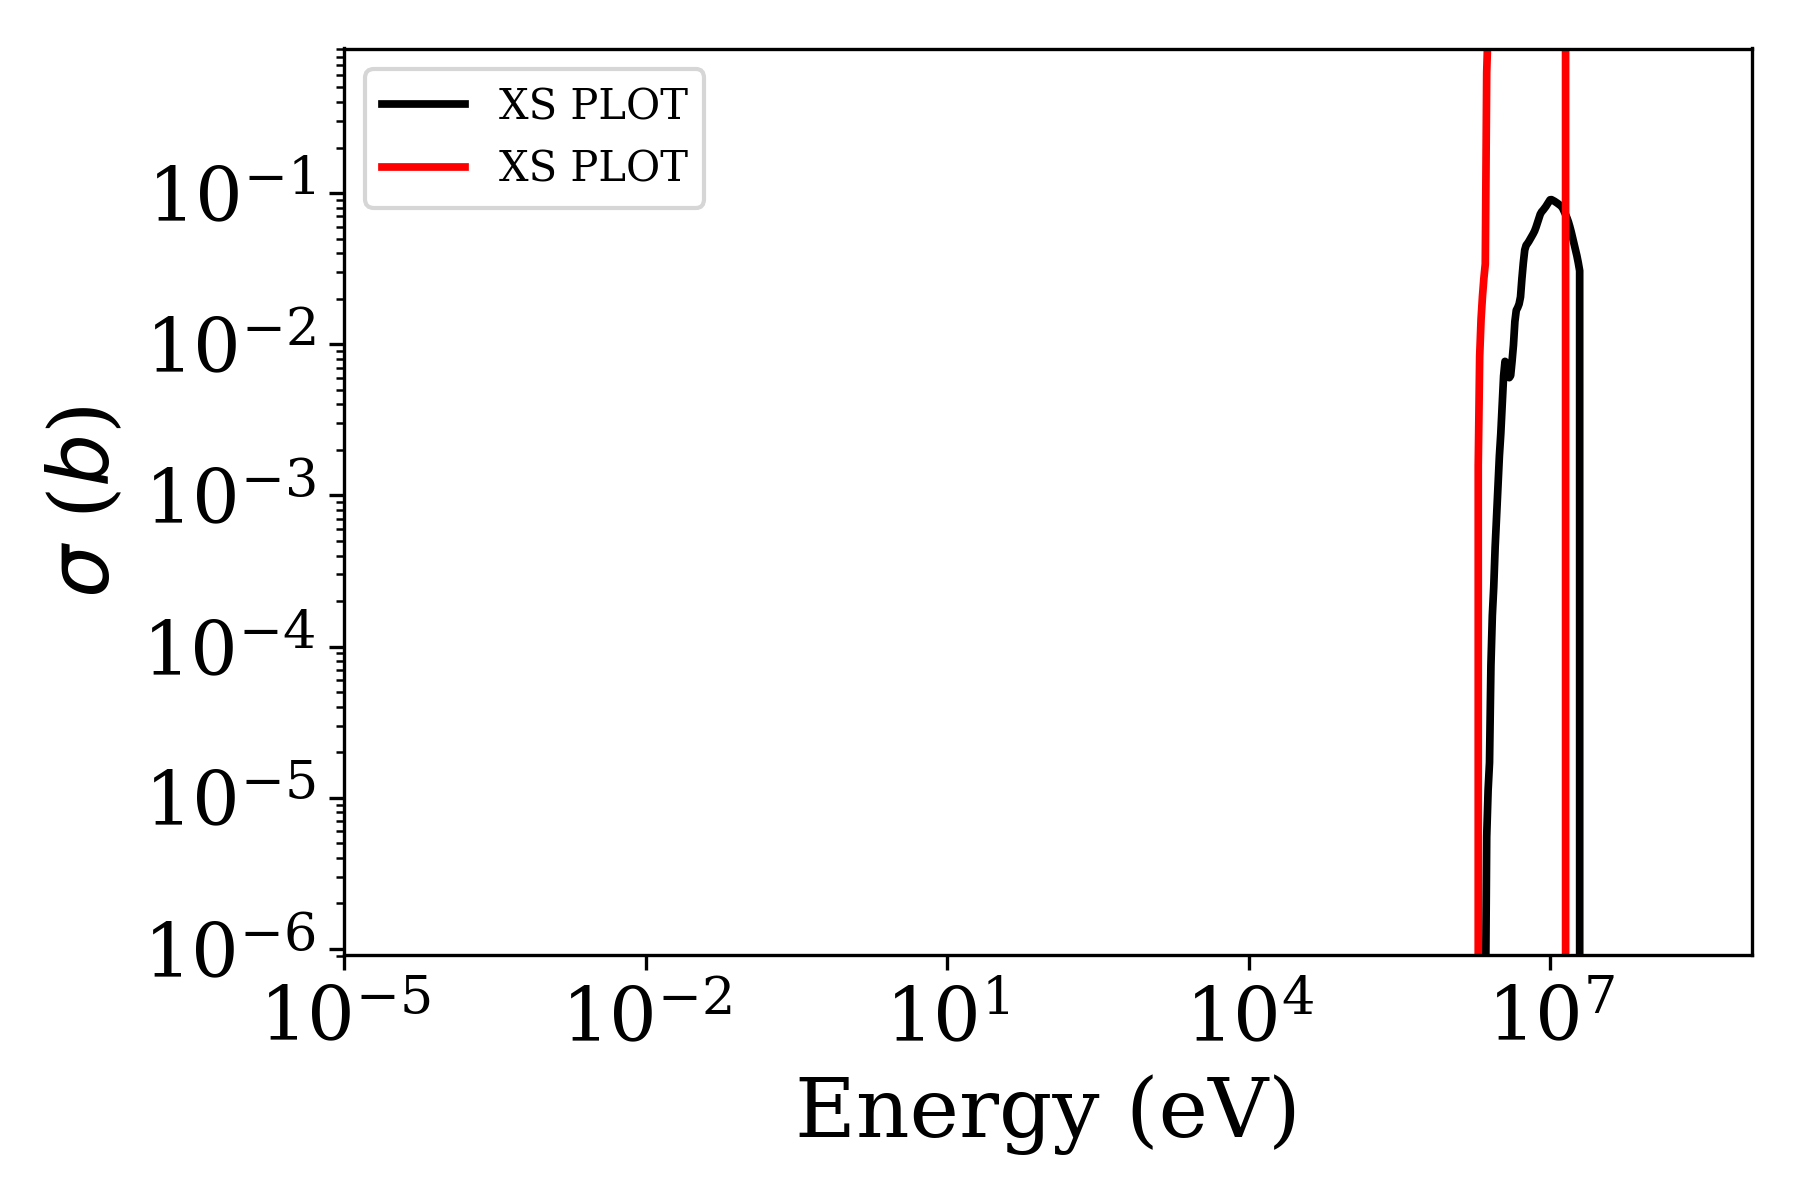
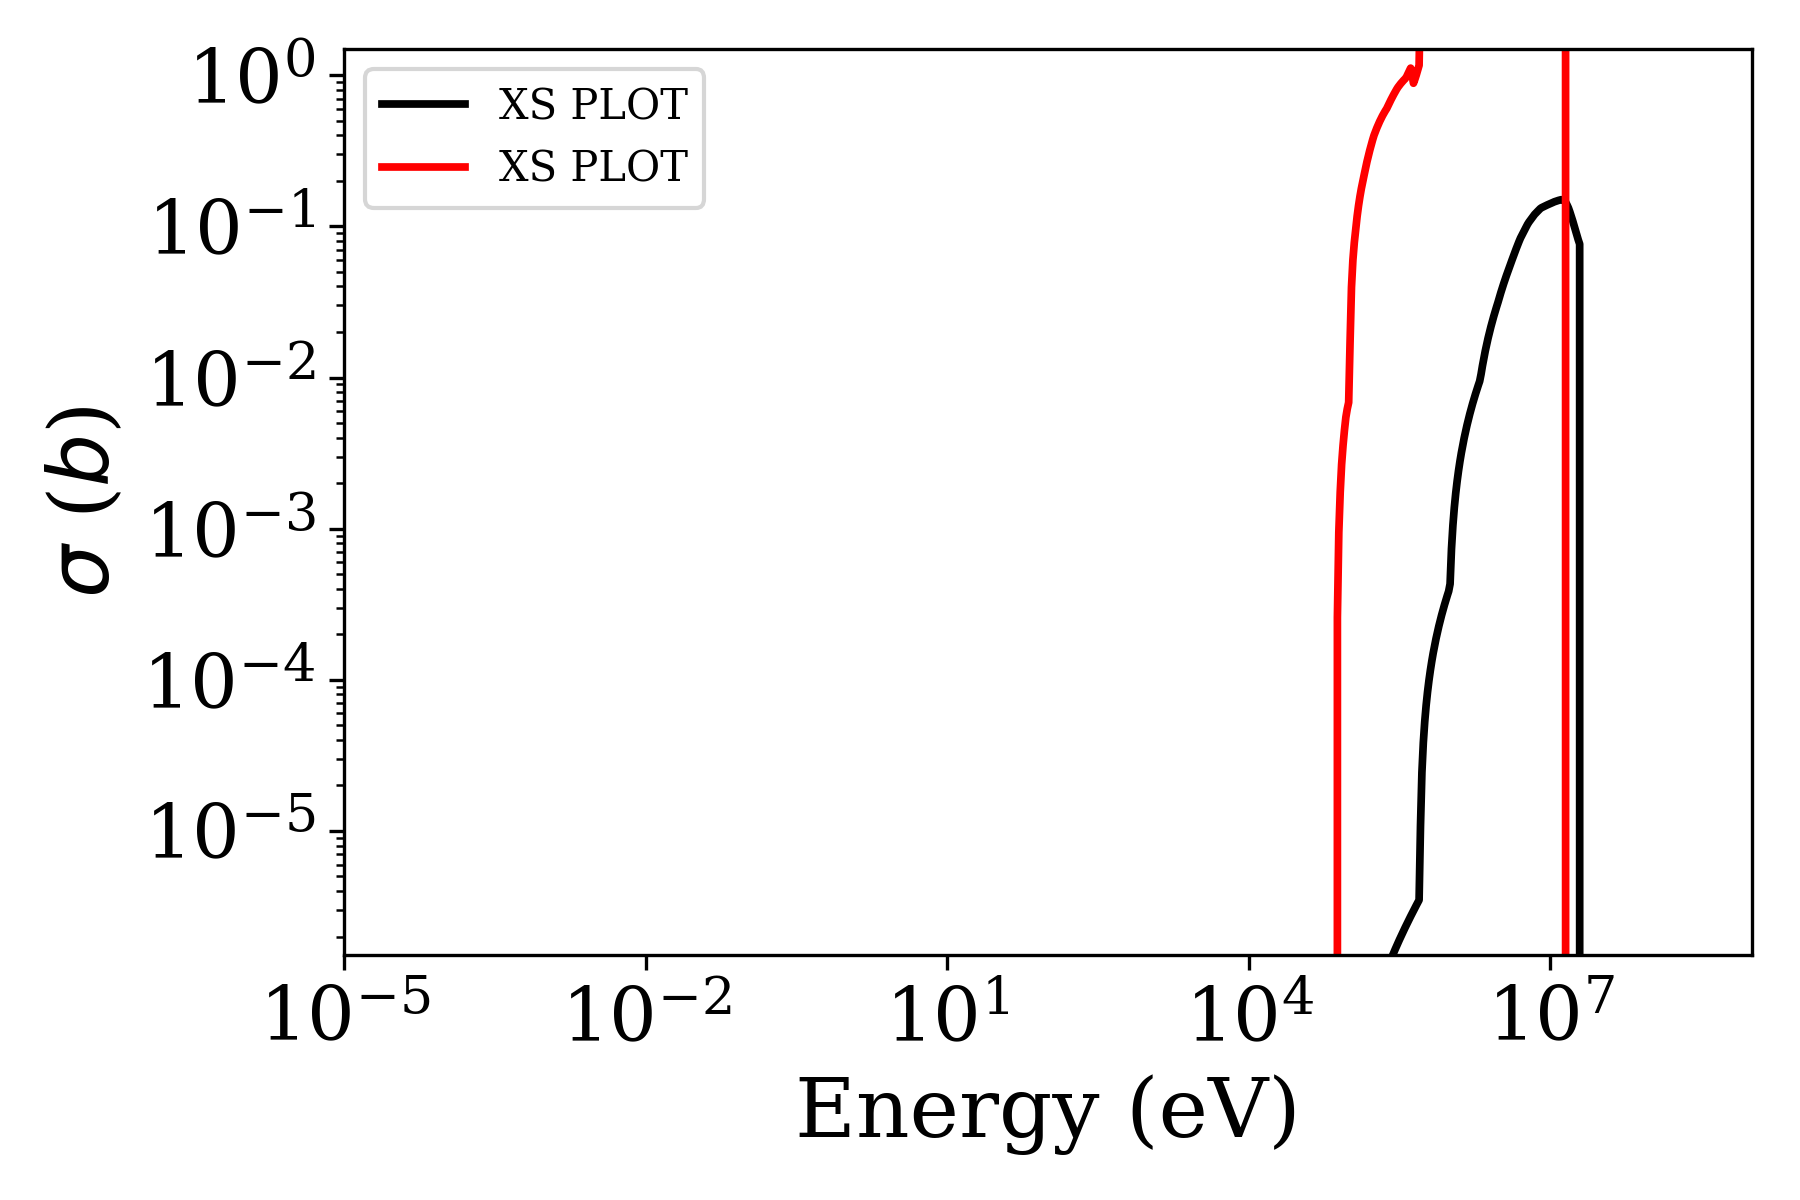
titanium np scandium production

diff --git a/source/cross_sections.py b/source/cross_sections.py
@@ -39,6 +39,25 @@ Cd['reactions']['n,tot']['func'] = cd_xs_weighted
 Cd['reactions']['n,tot']['halflife'] = 0  # s
 Cd['reactions']['n,tot']['label'] = r'($n,tot$)'
 
+
+# titanium 47
+Ti = {}
+Ti['M'] = 47.867  # g/mol
+Ti['rho'] = 4.506  # g/cm3
+Ti['principle'] = 'n,p'
+Ti['principle_br'] = 1.0
+Ti['principle_erg'] = 100  # just a guess
+
+Ti['reactions'] = {}
+Ti['reactions']['n,p'] = {}
+f, r = extract('22-Ti-47(n,p)')
+Ti['reactions']['n,p']['func'] = f
+Ti['reactions']['n,p']['region'] = r
+Ti['reactions']['n,p']['halflife'] = 3.422 * 24 * 3600  # s
+Ti['reactions']['n,p']['label'] = r'($n,p$)'
+
+
+
 # magnesium
 Mg = {}
 Mg['M'] = 24.3050  # g/mol
@@ -138,7 +157,7 @@ Sc['reactions']['n,gamma']['label'] = r'($n,\gamma$)'
 Sc['reactions']['n,gamma']['erg'] = [(1, 1780)]  # keV (placeholder)
 Sc['reactions']['n,gamma']['plotname'] = 'sc_n,gamma'
 
-
+'''
 # titanium
 Ti = {}
 Ti['M'] = 47.867  # g/mol
@@ -156,7 +175,7 @@ Ti['reactions']['n,p']['halflife'] = 43.7 * 60 * 60 #s
 Ti['reactions']['n,p']['label'] = r'($n,p$)'
 Ti['reactions']['n,p']['erg'] = [-1,1]#KeV (placeholder)
 Ti['reactions']['n,p']['plotname'] = 'ti_n,p'
-
+'''
 #TODO Ti46,47
 
 # chromium
@@ -568,3 +587,4 @@ foils['Ir'] = Ir
 foils['Mo'] = Mo
 foils['Cr'] = Cr
 foils['Ca'] = Ca
+foils['Ti'] = Ti

diff --git a/source/limiting_isotopes.py b/source/limiting_isotopes.py
@@ -1,0 +1,16 @@
+import numpy as np
+from wand import Wand
+
+
+if True:
+    wand = Wand()
+    wand.name = 'titanium'
+    wand.mat = 'Ti'
+    wand.cd = False
+    mass = 0.0744 * 0.291 * 71.41 * 1e3
+    wand.masses = np.array([mass, mass, mass, mass])  # mg
+    wand.t_i = 30*60  # s
+    wand.t_w = 3600 * 24 * 7  # s
+    wand.counting_time = 60
+    wand.P = 100  # kW(th)
+    wand.irradiate(False)
